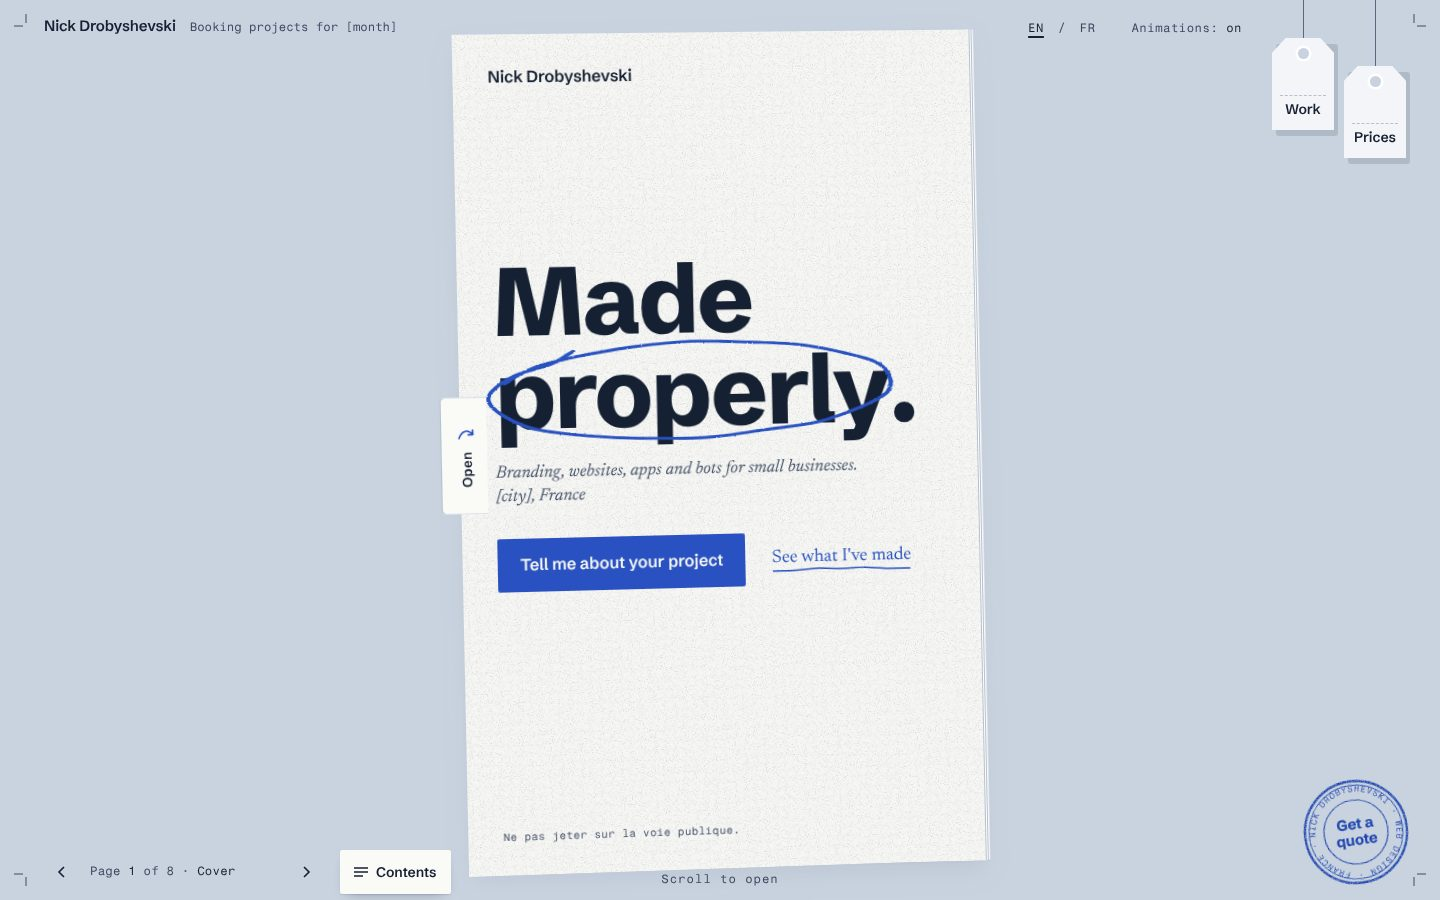
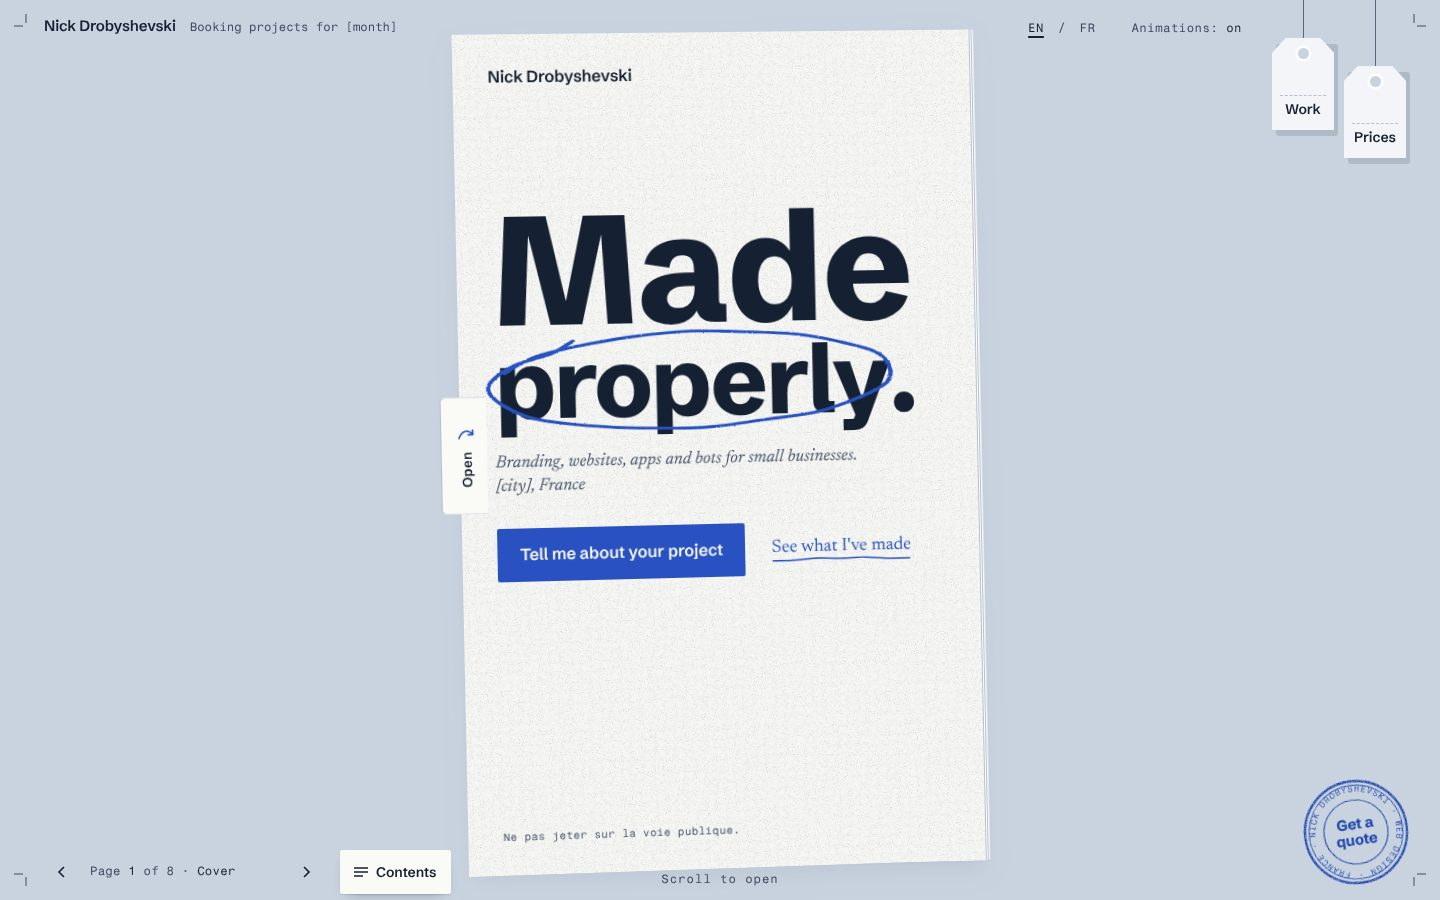
Leaflet cover: scale "Made" into a full-width lockup
The slogan is now two words, so "Made" is enlarged to fill the panel
width like "properly." (1.6x in English; "Fait" 3.65x in French), and
both lines read as one block.

Claude-Session: https://claude.ai/code/session_01QZGtzXz9vmdN1aBxKVsAM3

Changed region(s): [[0.3125, 0.2178, 0.6562, 0.6844]]

diff --git a/design/mockups/round2/leaflet-made-properly.html b/design/mockups/round2/leaflet-made-properly.html
@@ -663,6 +663,10 @@ html.leaf-3d .op { z-index: 2; mix-blend-mode: multiply; }
 .cover__place { text-wrap: pretty; }
 html.leaf-3d .op { --opfs: calc(var(--W) * .5); }
 #about .op-word { --k: 36; } #work .op-word { --k: 22.3; }
+
+/* lockup: "Made" is scaled up so both lines fill the panel width */
+.cover__h1 .l:first-child { font-size: calc(var(--h1a, 1.6) * 1em); line-height: .86; }
+html.leaf-3d .cover__h1 { margin-top: calc(var(--H) * .14); }
 </style>
 </head>
 <body>
@@ -1738,6 +1742,7 @@ html.leaf-3d .op { --opfs: calc(var(--W) * .5); }
     lang = l; d.lang = l;
     $$('[data-fr]').forEach(el => { if (el.dataset.en === undefined) el.dataset.en = el.textContent; el.textContent = l === 'fr' ? el.dataset.fr : el.dataset.en; });
     d.style.setProperty('--h1k', l === 'fr' ? 14.3 : 21.4);
+    d.style.setProperty('--h1a', l === 'fr' ? 3.65 : 1.6);
     langBtns.forEach(b => b.setAttribute('aria-pressed', String(b.dataset.lang === l)));
     const f = FOLIO[folioCur || 'cover']; folioName.textContent = l === 'fr' ? f[2] : f[1];
     motionLabel();
